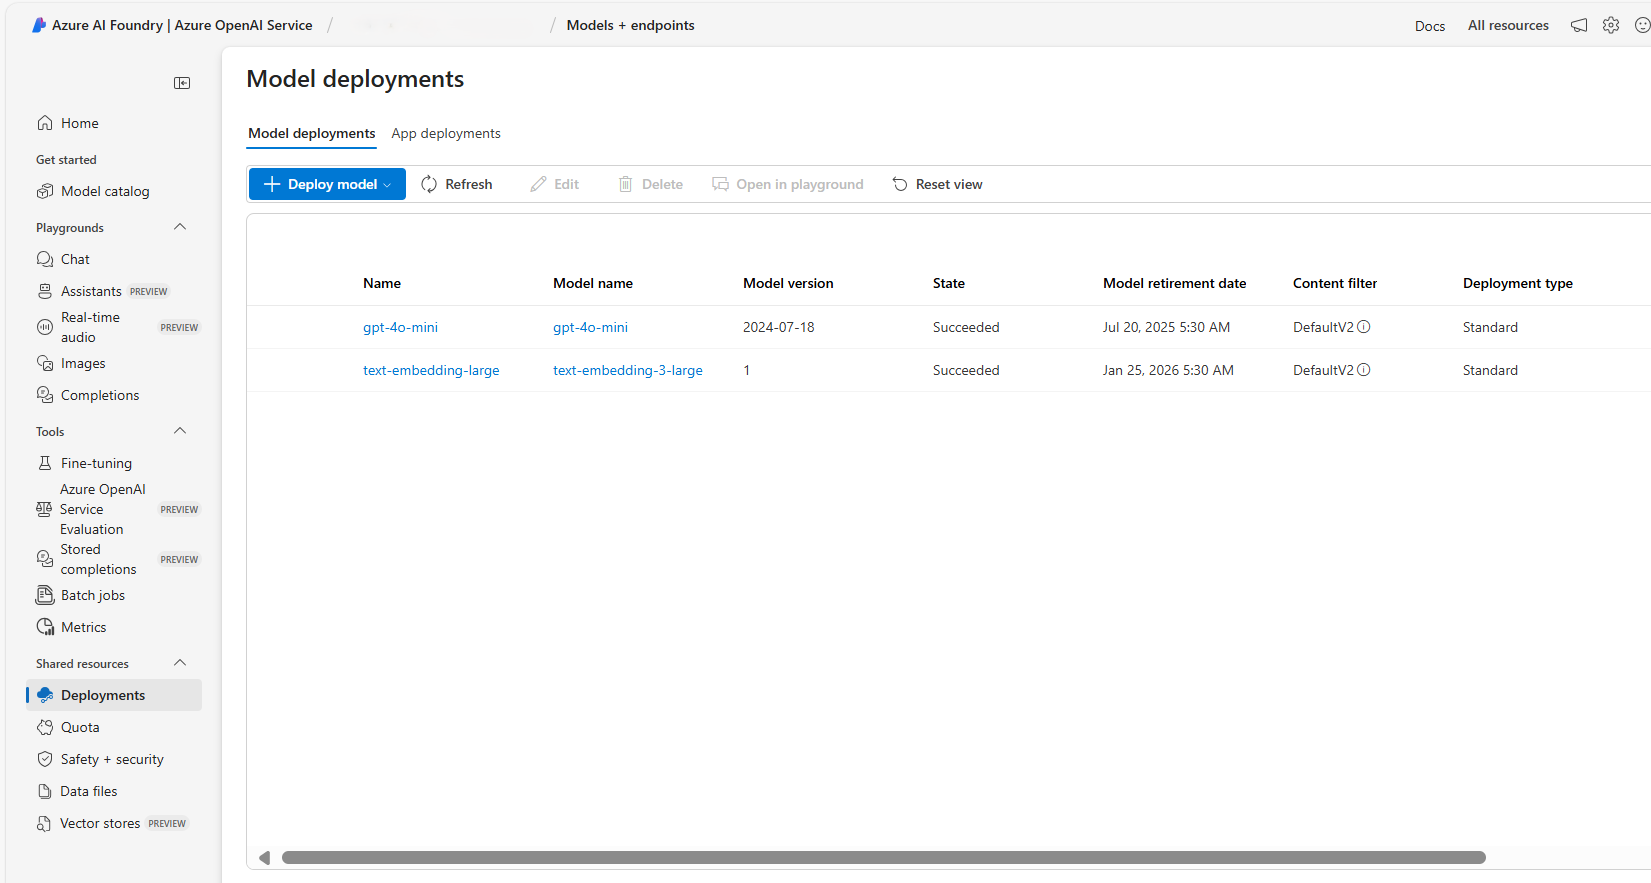
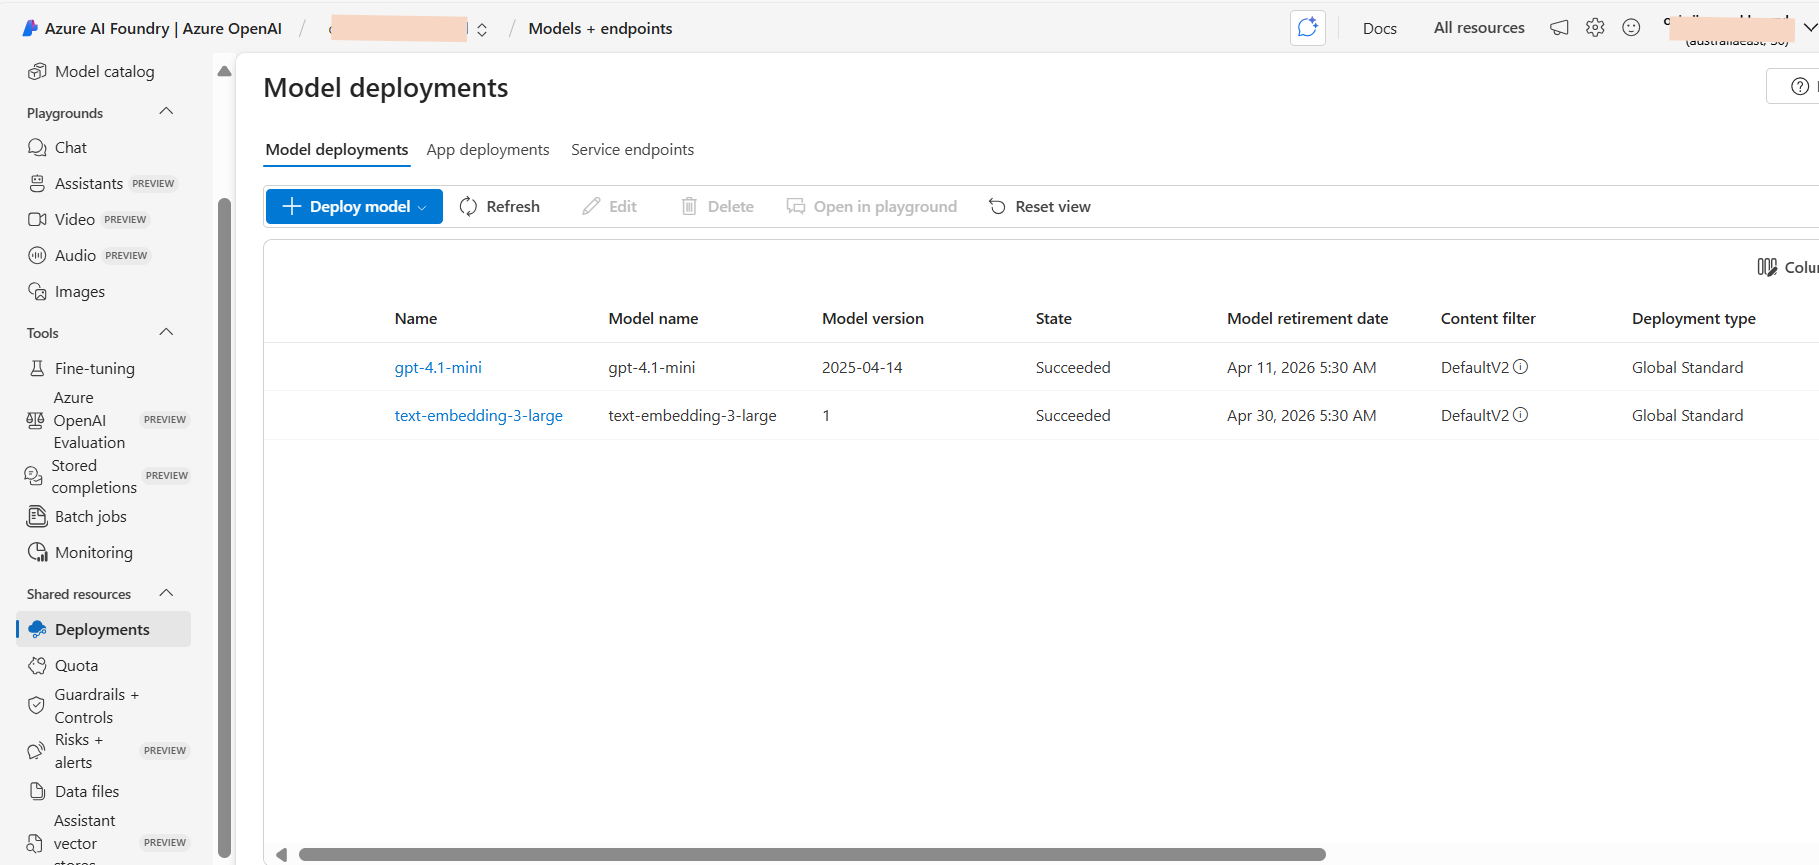
Enhance AVM Post Deployment Guide with command options for different deployment methods

diff --git a/docs/AVMPostDeploymentGuide.md b/docs/AVMPostDeploymentGuide.md
@@ -83,12 +83,21 @@ The post-deployment process is automated through a single PowerShell script that
    cd .\Deployment\
    ```
 
-2. Run the post-deployment script with your resource group name:
+2. **Choose the appropriate command based on your deployment method:**
+
+   **If you deployed using custom templates, ARM/Bicep deployments, or `az deployment group` commands:**
    ```powershell
    .\resourcedeployment.ps1 -ResourceGroupName "<your-resource-group-name>"
    ```
    
-   > **Note**: Replace `<your-resource-group-name>` with the actual name of the resource group containing your AVM-deployed resources.
+   **If you deployed using `azd up` command:**
+   ```powershell
+   .\resourcedeployment.ps1
+   ```
+   
+   > **Note**: Replace `<your-resource-group-name>` with the actual name of the resource group containing your deployed Azure resources.
+
+   > **💡 Tip**: Since this guide is for AVM deployments, you'll most likely use the first command with the `-ResourceGroupName` parameter.
 
 3. **If you encounter execution policy issues**, use this alternative command:
    ```powershell
@@ -132,7 +141,7 @@ Upon successful completion, you'll see a success message with important informat
 
 | Model Name             | Recommended TPM | Minimum TPM |
 |------------------------|----------------|-------------|
-| GPT-4o-mini            | 100K TPM       | 10K TPM     |
+| gpt-4.1-mini            | 100K TPM       | 10K TPM     |
 | text-embedding-3-large | 200K TPM       | 50K TPM     |
 
 > **⚠ Warning**: Insufficient quota will cause failures during document upload and processing. Ensure adequate capacity before proceeding.

diff --git a/docs/DeploymentGuide.md b/docs/DeploymentGuide.md
@@ -179,6 +179,8 @@ cd .\Deployment\
 
 > **Note:** Replace `<your-resource-group-name>` with the actual name of the resource group containing your deployed Azure resources.
 
+> **💡 Tip**: Since this guide is for azd deployment, you'll typically use the first command without the `-ResourceGroupName` parameter.
+
 If you run into issue with PowerShell script file not being digitally signed, you can execute below command:
 
 ```
